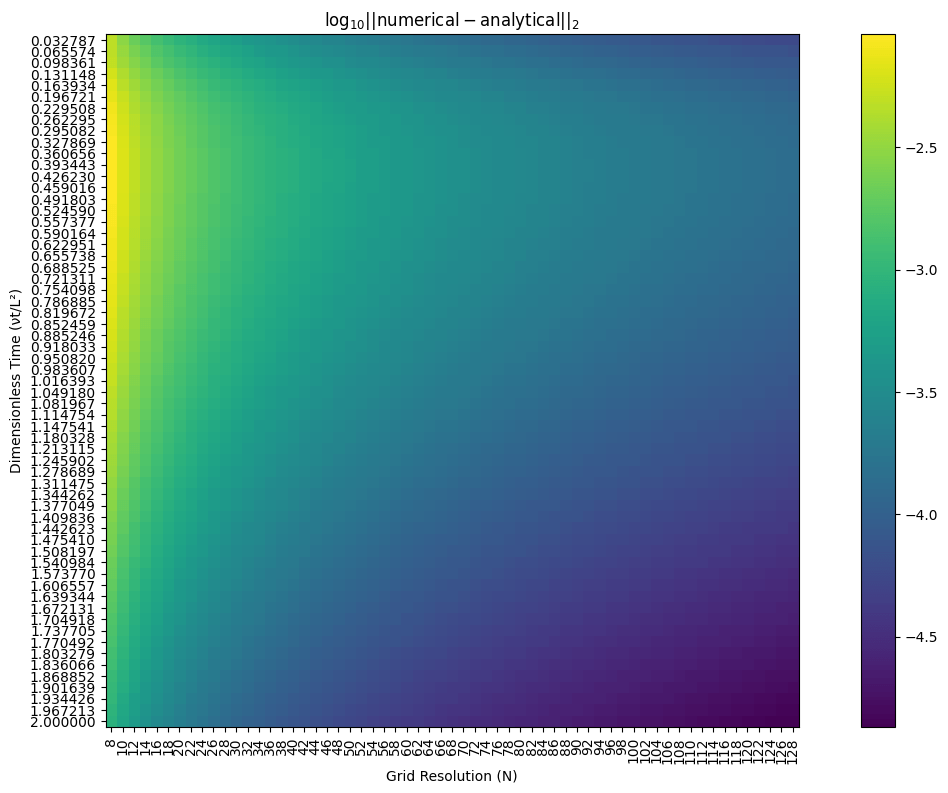
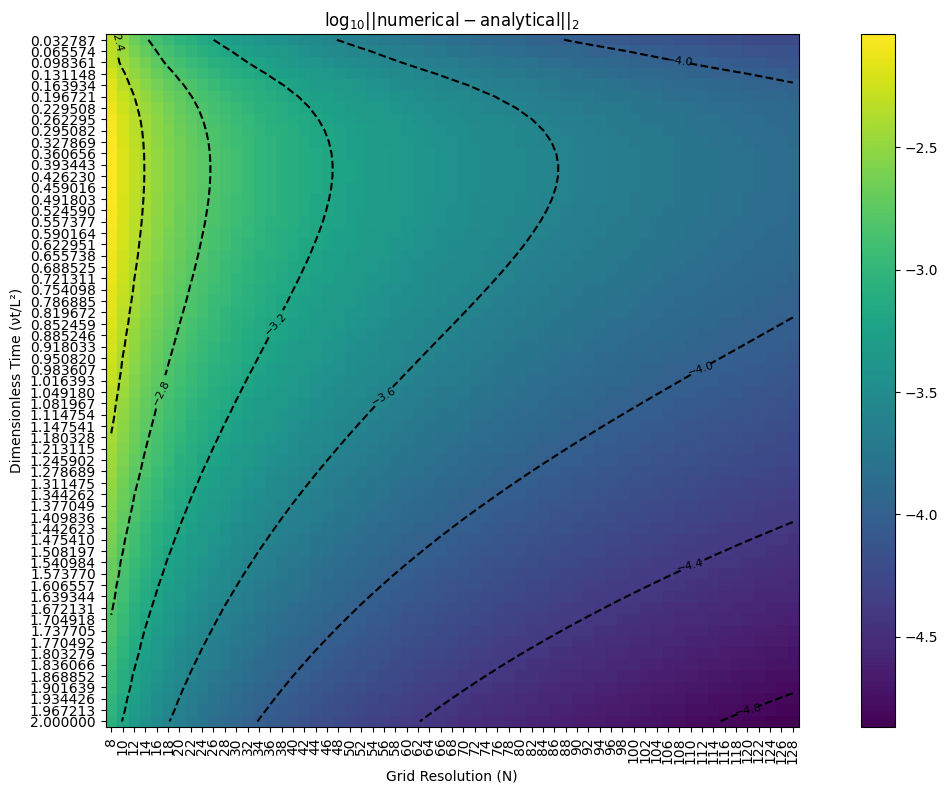
:sparkles: Add contour lines to heatmap

diff --git a/mae5005/code/2/unidirectional_flow.py b/mae5005/code/2/unidirectional_flow.py
@@ -41,8 +41,11 @@ def plot_dimensionless_time(Ns: t.List[int], nutLs: t.List[float], alpha: float 
     fig.savefig('dimensionless_time.png', bbox_inches='tight', transparent=True)
 
 def plot_error(norms: np.ndarray, Ns: np.ndarray, nutLs: np.ndarray) -> None:
+    A = np.log10(norms)
     fig, ax = plt.subplots(1, figsize=(16, 9))
-    im = ax.imshow(np.log10(norms))
+    im = ax.imshow(A)
+    co = ax.contour(A, colors='black')
+    ax.clabel(co, inline=True, fontsize=8)
     ax.set_title(r'$\log_{10}||\mathrm{numerical}-\mathrm{analytical}||_2$')
     ax.set_xticks(np.arange(Ns.size), rotation=90, labels=Ns)
     ax.set_yticks(np.arange(nutLs.size), labels=map('{:.6f}'.format, nutLs))
